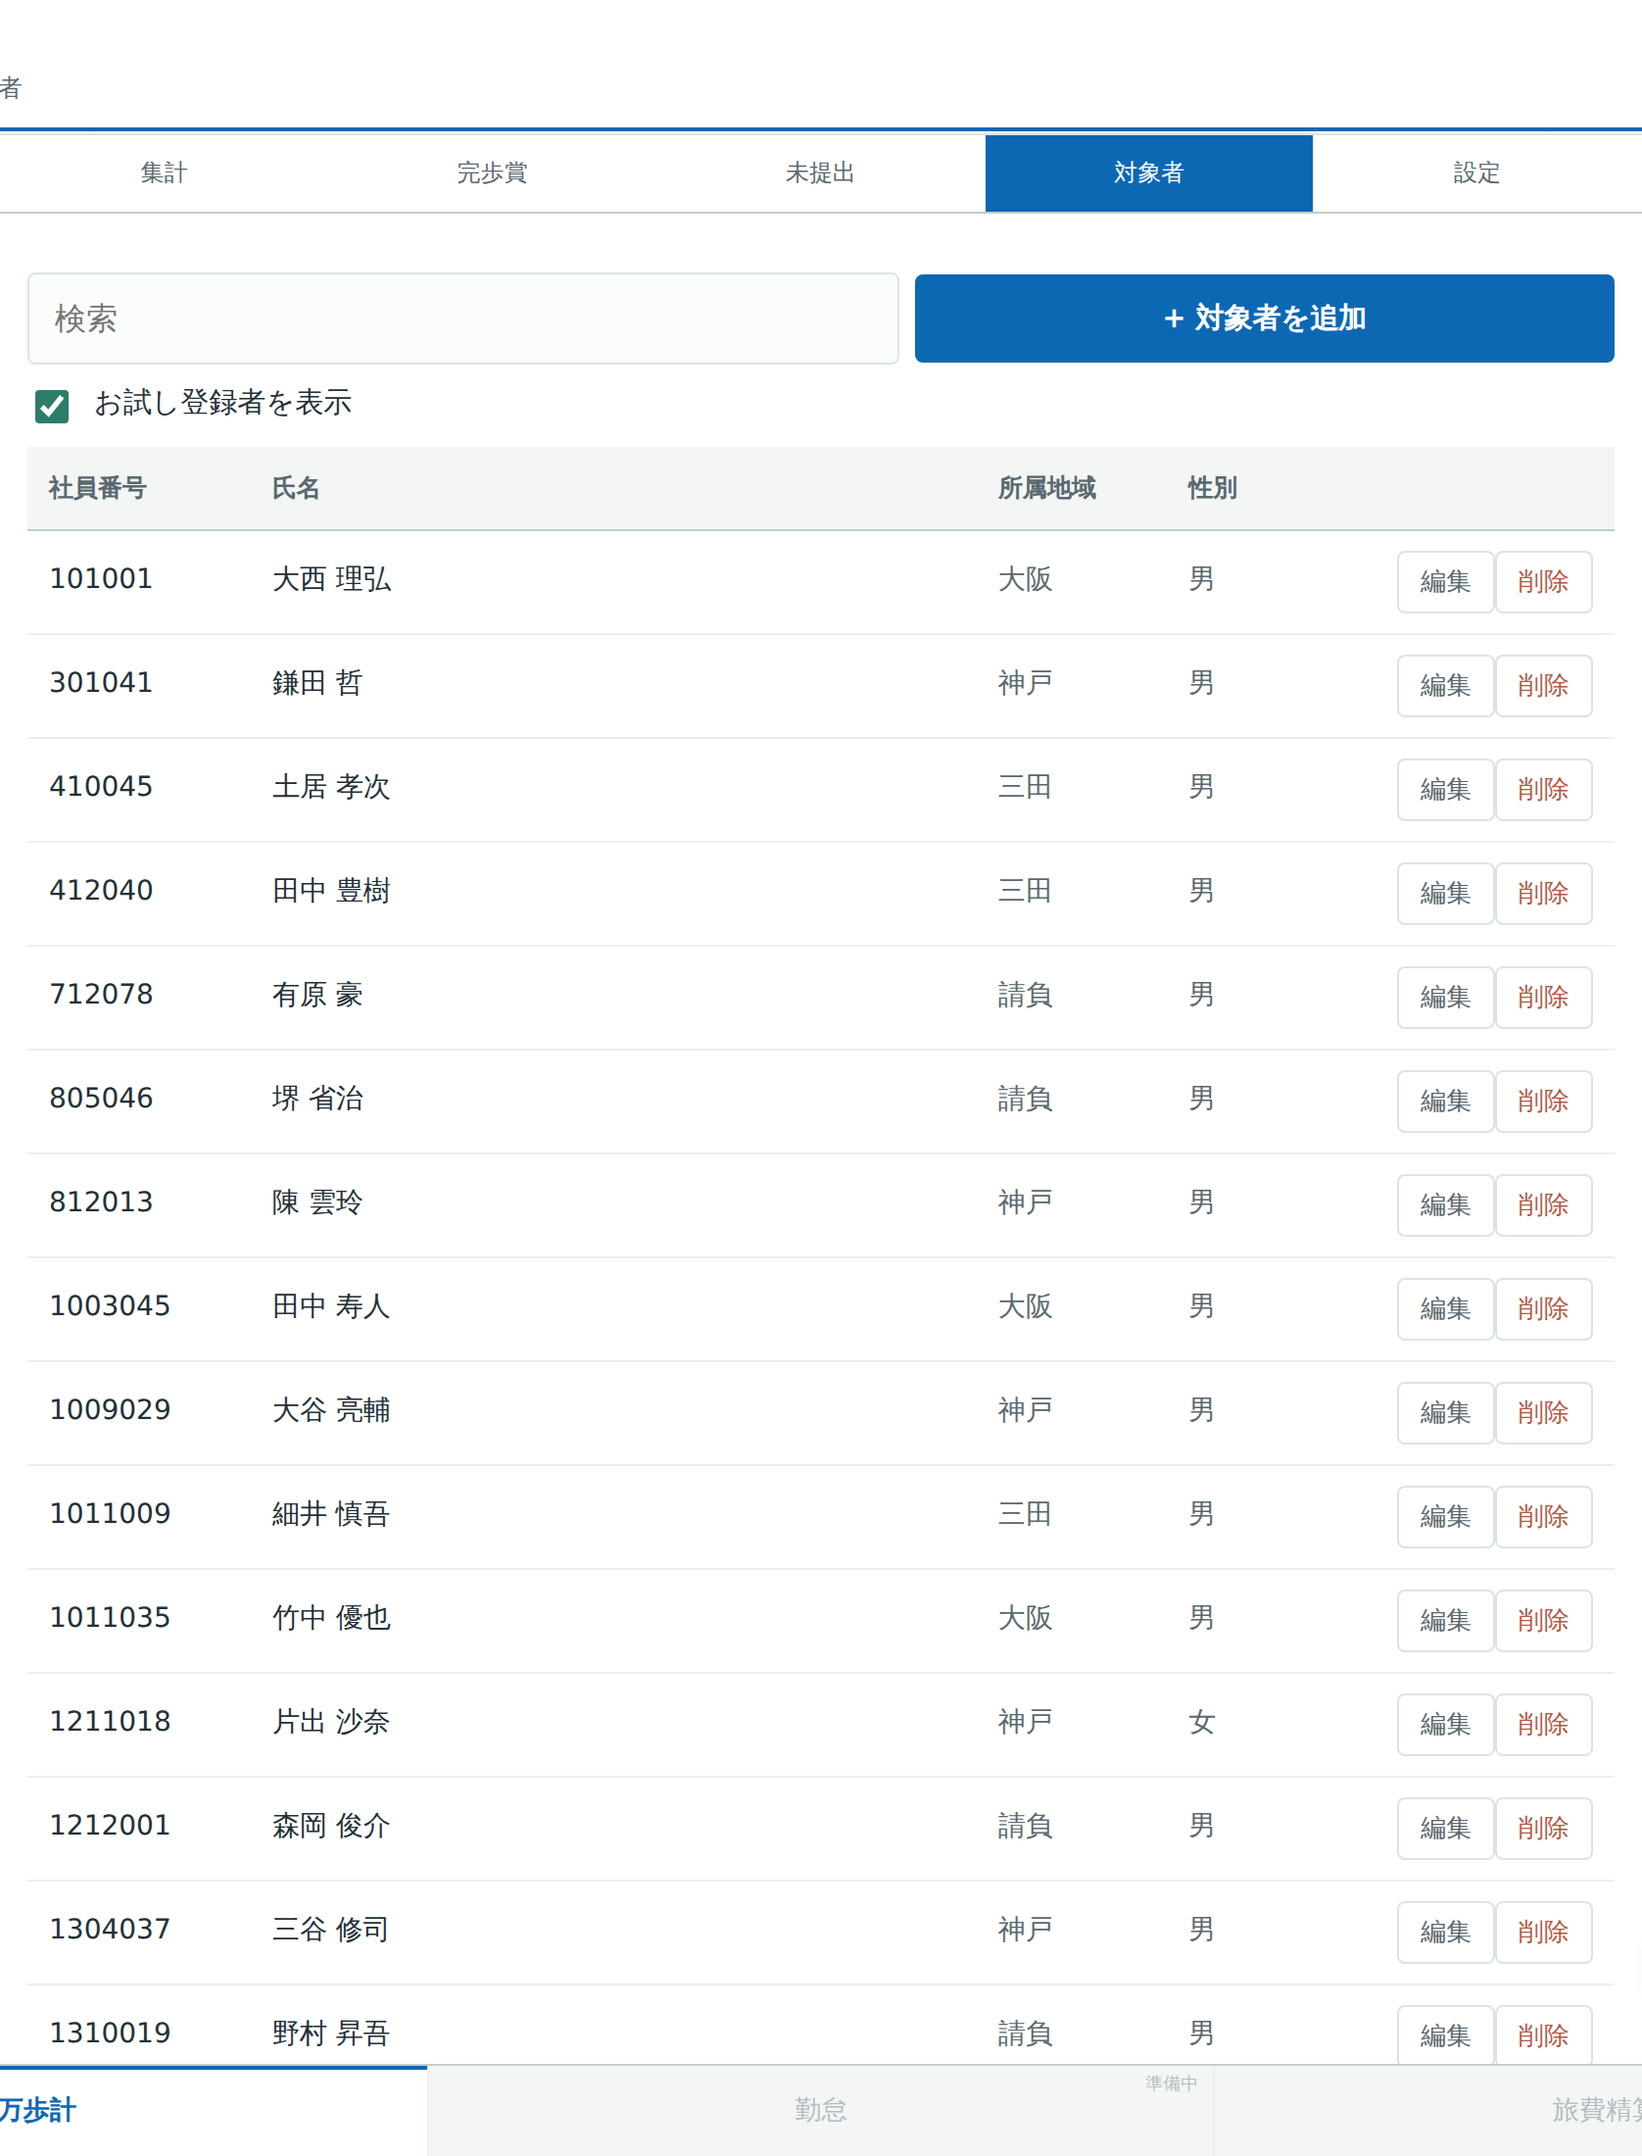
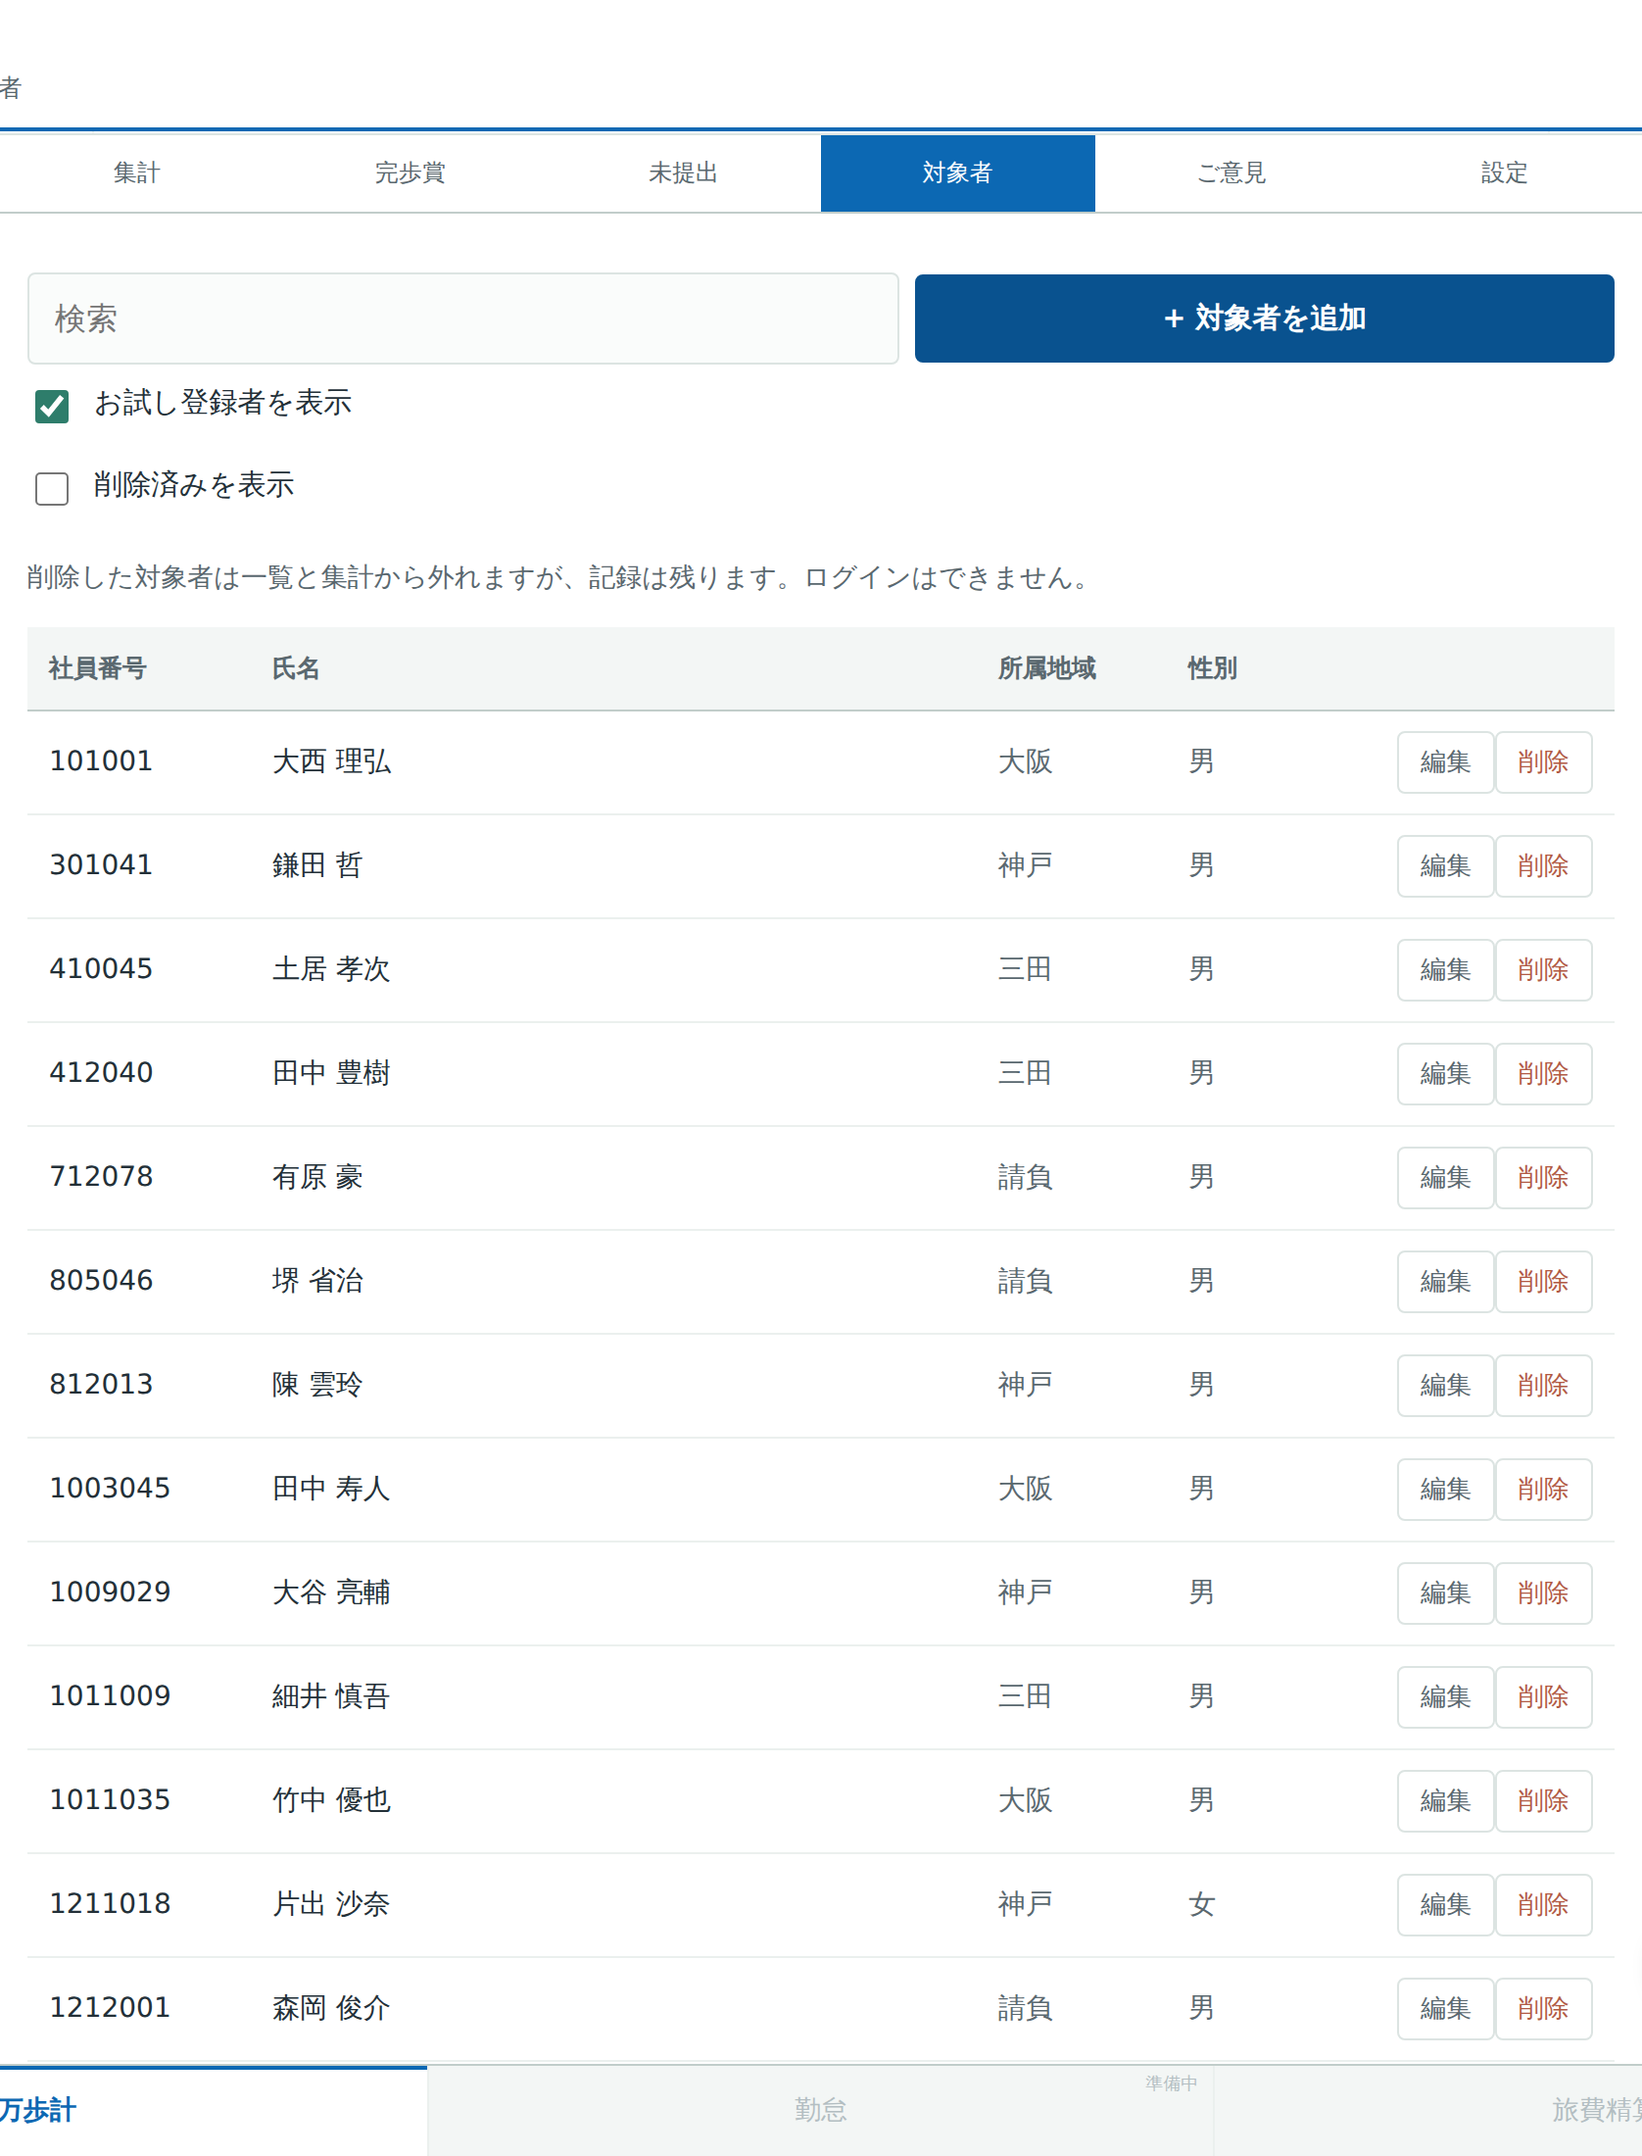
Removing a participant keeps their records
The rest of 佐野's 16 Sep list — the site half this time.

  Removing a participant no longer deletes them. 削除 marks the row inactive:
  they drop out of the list and every total, and they cannot sign in, but the
  row and every step they entered stay in the database. 削除済みを表示 shows
  them, greyed and tagged, with 復元 to bring one back. Until now 削除 dropped
  the row and ON DELETE CASCADE took their entire step history with it, with
  no way back — she asked to be able to look at a removed participant's
  figures.

  The aggregation, the export and the auto-submission already skipped anyone
  not active, and so does sign-in, so nothing else had to change.

  This also settles the bug where the last participant could not be deleted:
  the roster never shrinks now, so the guard in setRoster that skipped the
  delete on an empty list is no longer on any path.

  設定 groups its figures — 5,000 rather than 5000. A number input refuses a
  comma, so those three are text fields that keep the digits and regroup them
  as you type.

  この歩数以上は入力できません moves off its own line and into the label it
  belongs to.

  The reminder says 完歩賞対象外となる場合でも, not 完歩賞の対象外となる.

The manual follows: a 削除した参加者 section, the 注意 box no longer claims
deletion loses the entries, and 対象者 / 設定 / 集計 are re-screenshotted.

Claude-Session: https://claude.ai/code/session_01XMP6QTktT2ZH2brYbujzUP

diff --git a/src/App.jsx b/src/App.jsx
@@ -158,15 +158,23 @@ const STR = {
   addPerson: ['対象者を追加', 'Add participant'],
   edit: ['編集', 'Edit'],
   remove: ['削除', 'Delete'],
-  removeConfirm: ['この対象者を削除しますか？', 'Delete this participant?'],
+  removeConfirm: ['この対象者を削除しますか？\n記録は残り、「削除済みを表示」から確認・復元できます。',
+    'Remove this participant?\nTheir records are kept and can be seen or restored from 削除済みを表示.'],
+  restore: ['復元', 'Restore'],
+  restored: ['復元しました', 'Restored'],
+  removed: ['削除しました', 'Removed'],
+  showDeleted: ['削除済みを表示', 'Show removed'],
+  deletedTag: ['削除済み', 'Removed'],
+  deletedNote: ['削除した対象者は一覧と集計から外れますが、記録は残ります。ログインはできません。',
+    'A removed participant drops out of the list and the totals, but their records are kept. They cannot sign in.'],
   regionMaster: ['地域マスタ', 'Region master'],
   addRegion: ['地域を追加', 'Add region'],
   rules: ['集計ルール', 'Aggregation rules'],
   threshold: ['完歩賞の基準歩数', 'Bonus threshold (steps)'],
   bonusAmount: ['完歩賞の支給額（円）', 'Bonus amount (JPY)'],
   adminIds: ['管理者のログインID（カンマ区切り）', 'Administrator IDs (comma separated)'],
-  maxSteps: ['1日に入力できる上限歩数', 'Maximum steps per day'],
-  maxStepsNote: ['この歩数以上は入力できません。', 'Entries of this many steps or more are rejected.'],
+  maxSteps: ['1日に入力できる上限歩数（この歩数以上は入力できません。）',
+    'Maximum steps per day (entries of this many steps or more are rejected)'],
   overMax: ['{n}歩以上は入力できません', 'Enter fewer than {n} steps'],
   enforceWindow: ['提出期間の制限を有効にする', 'Enforce the submission window'],
   enforceNote: ['デモ中はOFFのままにするといつでも提出できます。', 'Leave off during the demo so submission works any day.'],
@@ -1366,10 +1374,14 @@ function PeopleAdmin({ cfg, setCfg, roster, setRoster, toast }) {
   const t = useT();
   const [q, setQ] = useState('');
   const [withTrial, setWithTrial] = useState(true);
+  const [withDeleted, setWithDeleted] = useState(false);
   const [edit, setEdit] = useState(null);
   const [newRegion, setNewRegion] = useState('');
 
-  const save = async (next) => { setRoster(next); await S.set('roster', next); toast(t('saved')); };
+  const save = async (next, quiet) => {
+    setRoster(next); await S.set('roster', next);
+    if (!quiet) toast(t('saved'));
+  };
 
   const commit = async () => {
     const f = edit;
@@ -1386,12 +1398,23 @@ function PeopleAdmin({ cfg, setCfg, roster, setRoster, toast }) {
     await save(next); setEdit(null);
   };
 
+  /* 削除 marks the row inactive instead of deleting it. 健康対策委員会 asked
+     for a removed participant's figures to stay readable, and the aggregation
+     already skips anyone who is not active — so does sign-in. */
   const del = async (id) => {
     if (!window.confirm(t('removeConfirm'))) return;
-    await save(roster.filter((p) => String(p.id) !== String(id)));
+    await save(roster.map((p) => (String(p.id) === String(id) ? { ...p, active: false } : p)), true);
+    toast(t('removed'));
   };
 
+  const restore = async (id) => {
+    await save(roster.map((p) => (String(p.id) === String(id) ? { ...p, active: true } : p)), true);
+    toast(t('restored'));
+  };
+
+  const deletedCount = roster.filter((p) => p.active === false).length;
   const shown = roster
+    .filter((p) => (withDeleted ? true : p.active !== false))
     .filter((p) => withTrial || !p.trial)
     .filter((p) => !q.trim() || p.name.includes(q) || String(p.id).includes(q));
 
@@ -1408,18 +1431,33 @@ function PeopleAdmin({ cfg, setCfg, roster, setRoster, toast }) {
           <input type="checkbox" checked={withTrial} onChange={(e) => setWithTrial(e.target.checked)} />
           <span>{t('showTrial')}</span>
         </label>
+        <label className="check">
+          <input type="checkbox" checked={withDeleted} onChange={(e) => setWithDeleted(e.target.checked)} />
+          <span>{t('showDeleted')}{deletedCount ? `（${deletedCount}）` : ''}</span>
+        </label>
+        <p className="muted sm">{t('deletedNote')}</p>
         <div className="tablewrap">
           <table className="tbl">
             <thead><tr><th>{t('employeeId')}</th><th>{t('name')}</th><th>{t('region')}</th><th>{t('gender')}</th><th /></tr></thead>
             <tbody>
               {shown.map((p) => (
-                <tr key={p.id}>
+                <tr key={p.id} className={p.active === false ? 'gone' : ''}>
                   <td className="mono">{p.id}</td>
-                  <td>{p.name}{p.trial && <span className="pill trial">{t('trialTag')}</span>}</td>
+                  <td>
+                    {p.name}
+                    {p.trial && <span className="pill trial">{t('trialTag')}</span>}
+                    {p.active === false && <span className="pill gone">{t('deletedTag')}</span>}
+                  </td>
                   <td className="muted">{p.region}</td><td className="muted">{p.gender}</td>
                   <td className="right">
-                    <button className="mini" onClick={() => setEdit({ ...p, _orig: p.id })}>{t('edit')}</button>
-                    <button className="mini danger" onClick={() => del(p.id)}>{t('remove')}</button>
+                    {p.active === false ? (
+                      <button className="mini" onClick={() => restore(p.id)}>{t('restore')}</button>
+                    ) : (
+                      <>
+                        <button className="mini" onClick={() => setEdit({ ...p, _orig: p.id })}>{t('edit')}</button>
+                        <button className="mini danger" onClick={() => del(p.id)}>{t('remove')}</button>
+                      </>
+                    )}
                   </td>
                 </tr>
               ))}
@@ -1557,23 +1595,33 @@ function SettingsAdmin({ cfg, setCfg, toast, onDemo, onWipe }) {
      keystroke used to store each half-typed value: clearing 基準歩数 wrote 0,
      and editing the administrator ID wrote 'k', 'ke', 'ken'… any of which
      could lock the last administrator out mid-word. */
+  /* Figures are grouped as 5,000 rather than 5000, which a number input
+     cannot do — it rejects the comma — so these are text fields that keep the
+     digits and re-group them as you type. */
+  const grouped = (v) => {
+    const digits = String(v).replace(/[^\d]/g, '');
+    return digits === '' ? '' : nf(Number(digits));
+  };
+  const plain = (v) => Number(String(v).replace(/[^\d]/g, '')) || 0;
+
   const [draft, setDraft] = useState({
-    threshold: String(cfg.threshold), bonus: String(cfg.bonus),
-    maxSteps: String(cfg.maxSteps), adminIds: cfg.adminIds.join(', '),
+    threshold: grouped(cfg.threshold), bonus: grouped(cfg.bonus),
+    maxSteps: grouped(cfg.maxSteps), adminIds: cfg.adminIds.join(', '),
   });
+  const setNum = (k) => (e) => setDraft((d) => ({ ...d, [k]: grouped(e.target.value) }));
   const set = (k) => (e) => setDraft((d) => ({ ...d, [k]: e.target.value }));
-  const dirty = draft.threshold !== String(cfg.threshold)
-    || draft.bonus !== String(cfg.bonus)
-    || draft.maxSteps !== String(cfg.maxSteps)
+  const dirty = draft.threshold !== grouped(cfg.threshold)
+    || draft.bonus !== grouped(cfg.bonus)
+    || draft.maxSteps !== grouped(cfg.maxSteps)
     || draft.adminIds !== cfg.adminIds.join(', ');
 
   const saveRules = async () => {
     const ids = draft.adminIds.split(',').map((x) => x.trim()).filter(Boolean);
     if (!ids.length) { toast(t('adminIdsRequired')); return; }
     await upd({
-      threshold: Number(draft.threshold) || 0,
-      bonus: Number(draft.bonus) || 0,
-      maxSteps: Number(draft.maxSteps) || 0,
+      threshold: plain(draft.threshold),
+      bonus: plain(draft.bonus),
+      maxSteps: plain(draft.maxSteps),
       adminIds: ids,
     });
     setDraft((d) => ({ ...d, adminIds: ids.join(', ') }));
@@ -1584,15 +1632,14 @@ function SettingsAdmin({ cfg, setCfg, toast, onDemo, onWipe }) {
       <div className="card">
         <strong>{t('rules')}</strong>
         <label className="fld"><span>{t('threshold')}</span>
-          <input type="number" value={draft.threshold} onChange={set('threshold')} />
+          <input inputMode="numeric" value={draft.threshold} onChange={setNum('threshold')} />
         </label>
         <label className="fld"><span>{t('bonusAmount')}</span>
-          <input type="number" value={draft.bonus} onChange={set('bonus')} />
+          <input inputMode="numeric" value={draft.bonus} onChange={setNum('bonus')} />
         </label>
         <label className="fld"><span>{t('maxSteps')}</span>
-          <input type="number" value={draft.maxSteps} onChange={set('maxSteps')} />
+          <input inputMode="numeric" value={draft.maxSteps} onChange={setNum('maxSteps')} />
         </label>
-        <p className="muted sm">{t('maxStepsNote')}</p>
         <label className="fld"><span>{t('adminIds')}</span>
           <input value={draft.adminIds} onChange={set('adminIds')} />
         </label>
@@ -2130,6 +2177,10 @@ a.btn{text-decoration:none;text-align:center;display:inline-block}
 .fld-note{display:block;font-style:normal;font-size:12px;color:var(--dim);margin-top:5px}
 .trial-cta{width:100%;margin-top:20px;border-color:var(--brand);color:var(--brand)}
 .trial-cta:hover{background:var(--brand-wash)}
+/* a removed participant, shown only when 削除済みを表示 is ticked */
+.tbl tr.gone td{color:var(--dim)}
+.pill.gone{margin-left:7px;border-color:var(--rule-2);color:var(--dim);background:var(--wash);
+  font-weight:600;font-size:11px;padding:1px 7px}
 .pill.trial{margin-left:7px;border-color:var(--brand);color:var(--brand);background:var(--brand-wash);
   font-weight:600;font-size:11px;padding:1px 7px}
 /* Needs the td to out-specify the nowrap on .tbl td — as a bare class it

diff --git a/manual/manual.html b/manual/manual.html
@@ -603,10 +603,14 @@ td.k .en { font-weight: 400; }
     <li><b>削除</b>ボタン：既存の参加者を一覧から削除できます。<p class="en">削除 removes a participant from the list.</p></li>
   </ol>
 
+  <h3>削除した参加者<em>Removed participants</em></h3>
+  <p class="ja">削除しても記録は消えません。一覧と集計から外れ、ご本人はログインできなくなりますが、入力済みの歩数はそのまま残ります。<b>削除済みを表示</b>にチェックを入れると削除した参加者が一覧に表示され、<b>復元</b>で元に戻せます。</p>
+  <p class="en">Removing a participant does not delete anything. They drop out of the list and the totals and can no longer sign in, but their entered steps are kept. Tick <b>削除済みを表示</b> to see removed participants, and press <b>復元</b> to bring one back.</p>
+
   <div class="note warn">
     <b>注意 / Important</b>
-    <p>社員番号はログイン ID を兼ねています。<b>重複した社員番号は登録できません。</b>また、削除するとその方の入力済みデータは一覧に表示されなくなります。</p>
-    <p>The employee number is also the sign-in ID, so <b>duplicates are rejected</b>. Deleting someone also removes their entries from the lists.</p>
+    <p>社員番号はログイン ID を兼ねています。<b>重複した社員番号は登録できません。</b></p>
+    <p>The employee number is also the sign-in ID, so <b>duplicates are rejected</b>.</p>
   </div>
 
   <h3>地域マスタ<em>Region master</em></h3>
